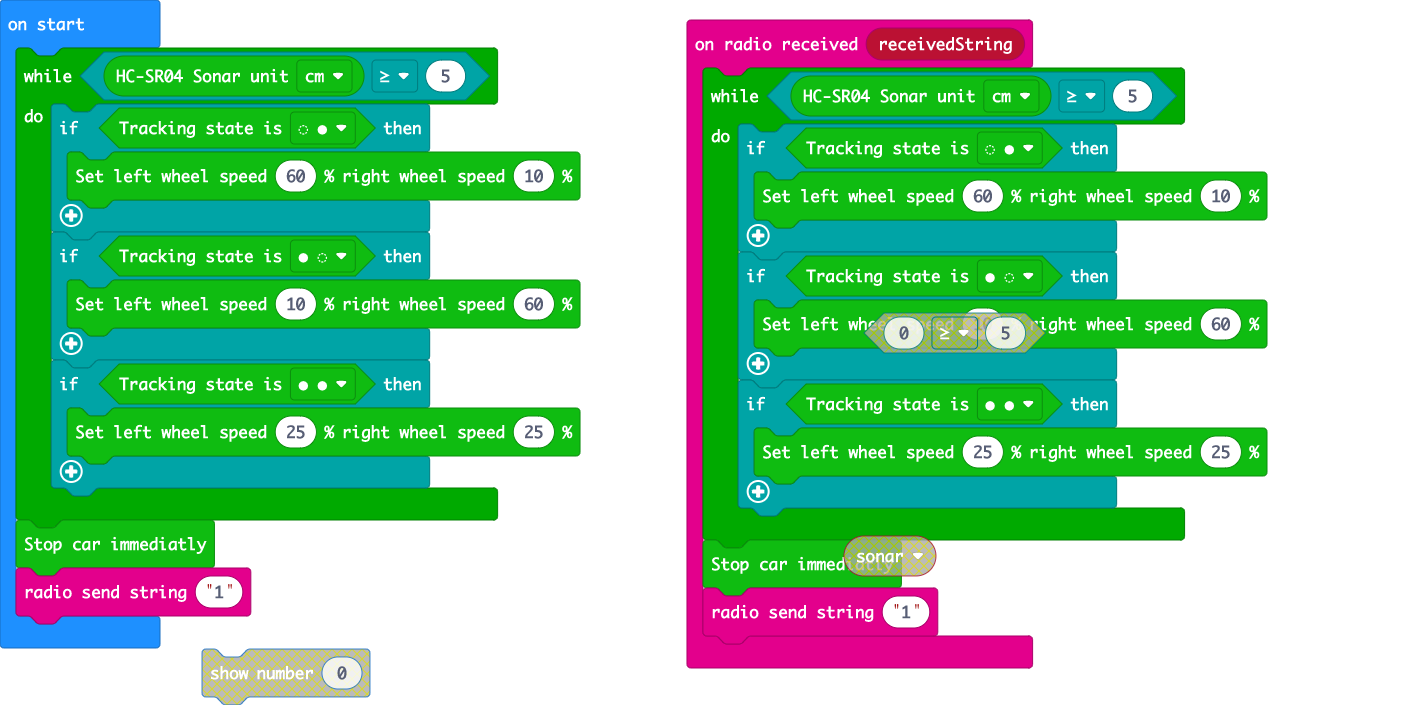
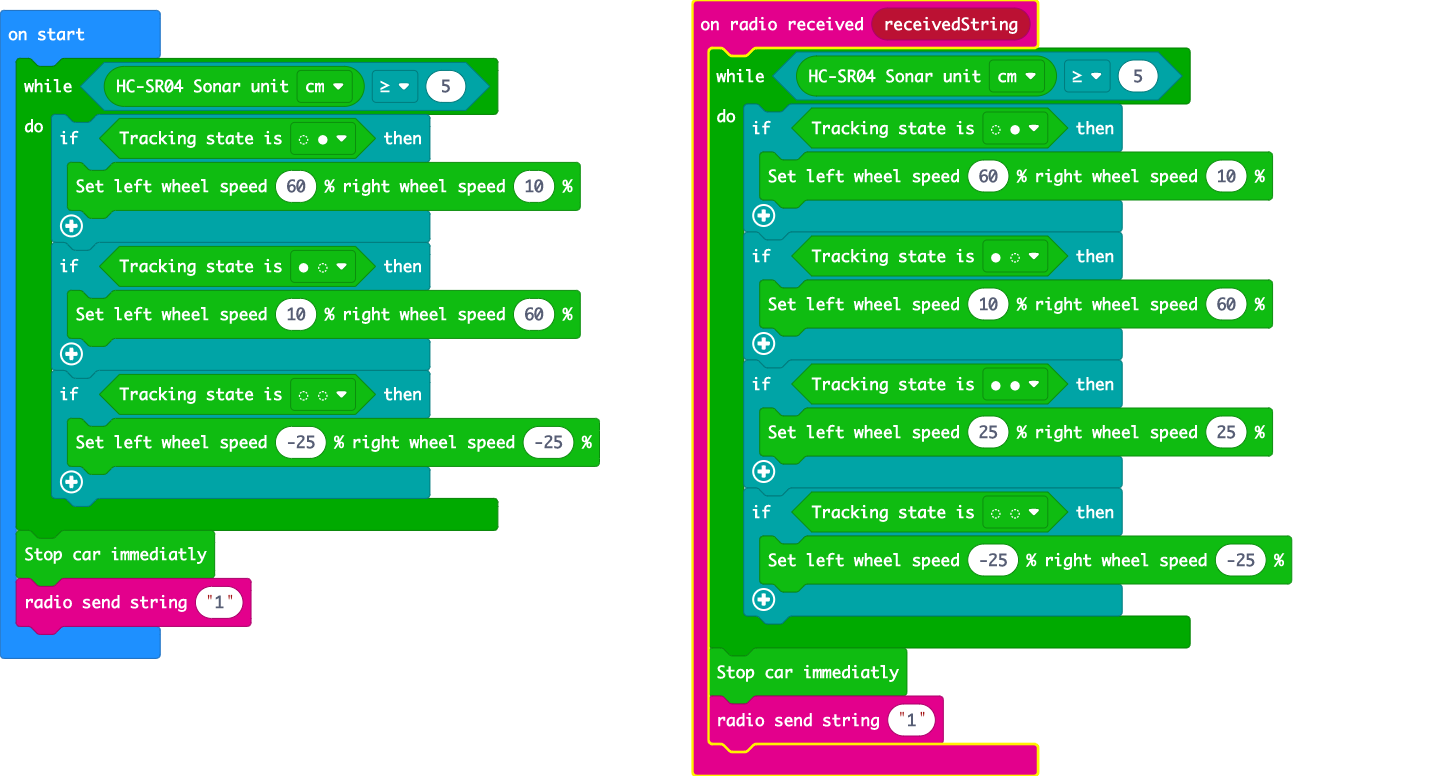
CASE: no line detected ACTION: move backwards

diff --git a/main.ts b/main.ts
@@ -9,6 +9,9 @@ radio.onReceivedString(function (receivedString) {
         if (cuteBot.tracking(cuteBot.TrackingState.L_R_line)) {
             cuteBot.motors(25, 25)
         }
+        if (cuteBot.tracking(cuteBot.TrackingState.L_R_unline)) {
+            cuteBot.motors(-25, -25)
+        }
     }
     cuteBot.stopcar()
     radio.sendString("1")
@@ -20,8 +23,8 @@ while (cuteBot.ultrasonic(cuteBot.SonarUnit.Centimeters) >= 5) {
     if (cuteBot.tracking(cuteBot.TrackingState.L_line_R_unline)) {
         cuteBot.motors(10, 60)
     }
-    if (cuteBot.tracking(cuteBot.TrackingState.L_R_line)) {
-        cuteBot.motors(25, 25)
+    if (cuteBot.tracking(cuteBot.TrackingState.L_R_unline)) {
+        cuteBot.motors(-25, -25)
     }
 }
 cuteBot.stopcar()
